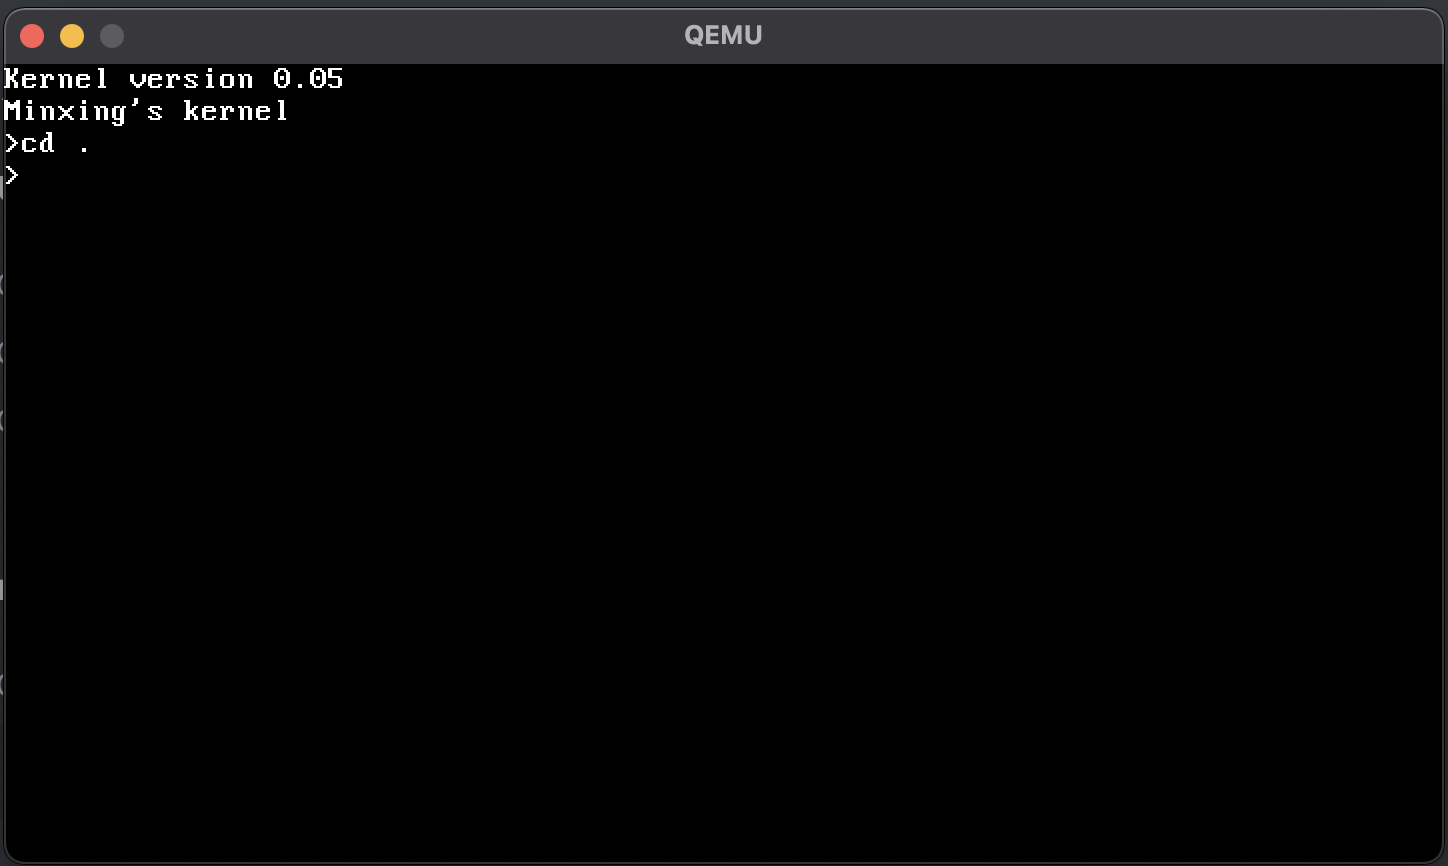
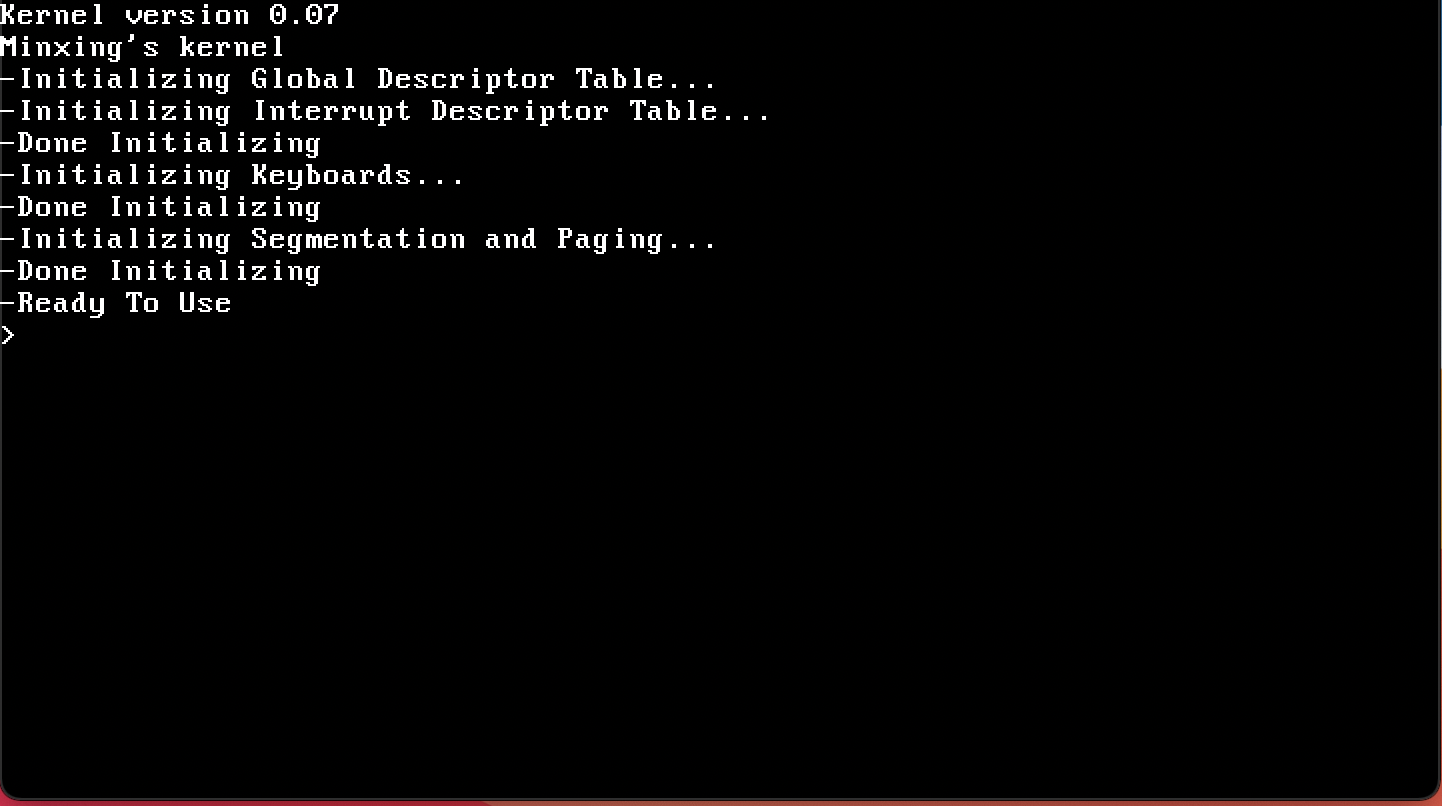
version 0.07

Changed region(s): [[0.0, 0.0, 1.0, 1.0]]

diff --git a/src/kmain.c b/src/kmain.c
@@ -9,27 +9,28 @@
 #include "timer.h"
 #include "paging.h"
 void kmain(void) {
-  char *kernel_version = "Kernel version 0.05";
-  char *kernel_intro = "Minxing's kernel\n";
 
   monitor_clear();
-  monitor_write(kernel_version);
-  newline_add();
-  monitor_write(kernel_intro);
-  
+  monitor_write("Kernel version 0.07\n");
+  monitor_write("Minxing's kernel\n");
+  monitor_write("-Initializing Global Descriptor Table...\n");
+  monitor_write("-Initializing Interrupt Descriptor Table...\n");
   init_descriptor_tables();
+  monitor_write("-Done Initializing\n");
+  monitor_write("-Initializing Keyboards...\n");
   keyboard_init();
+  monitor_write("-Done Initializing\n");
+  monitor_write("-Initializing Segmentation and Paging...\n");
+  initialize_paging();
+  monitor_write("-Done Initializing\n");
+  monitor_write("-Ready To Use\r");
+
   //init_timer(50);
 
-  asm volatile( "int $0x5");
-  asm volatile( "int $0x6");
-  asm volatile ("sti");
-  initialize_paging();
-  u32int *ptr = (u32int*)0x0000FFFF;
-  *ptr = 20;
-  u32int do_page_fault = *ptr;
-  monitor_write_dec(do_page_fault);
-  //init_timer(50);
+  //asm volatile( "int $0x5");
+  //asm volatile( "int $0x6");
+  //asm volatile ("sti");
+
 
 
   while(1);

diff --git a/src/keyboard_map.h b/src/keyboard_map.h
@@ -15,7 +15,7 @@ unsigned char keyboard_map[128] =
   '9', '0', '-', '=', '\b',	/* Backspace */
   '\t',			/* Tab */
   'q', 'w', 'e', 'r',	/* 19 */
-  't', 'y', 'u', 'i', 'o', 'p', '[', ']', '\n',	/* Enter key */
+  't', 'y', 'u', 'i', 'o', 'p', '[', ']', '\r',	/* Enter key */
     0,			/* 29   - Control */
   'a', 's', 'd', 'f', 'g', 'h', 'j', 'k', 'l', ';',	/* 39 */
  '\'', '`',   0,		/* Left shift */

diff --git a/src/monitor.c b/src/monitor.c
@@ -61,12 +61,12 @@ void monitor_put(char c){
 
     //handle carriage return
     else if (c == '\r'){
-        cursor_x = 0;
+        entry_output();
     }
 
     //handle newline by moving cursor back to left and increasing the row.
     else if (c == '\n'){
-        entry_output();
+        newline_add();
     }
 
     else if(c >= ' '){

diff --git a/src/isr.c b/src/isr.c
@@ -8,7 +8,7 @@ void isr_handler(registers_t regs){
         isr_t handler = interrupt_handlers[regs.int_no];
         handler(regs);
     } else {
-    monitor_write("received interrupts: ");
+    monitor_write("Unhandled interrupts: ");
     monitor_write_dec(regs.int_no);
     monitor_put('\n');
     }
